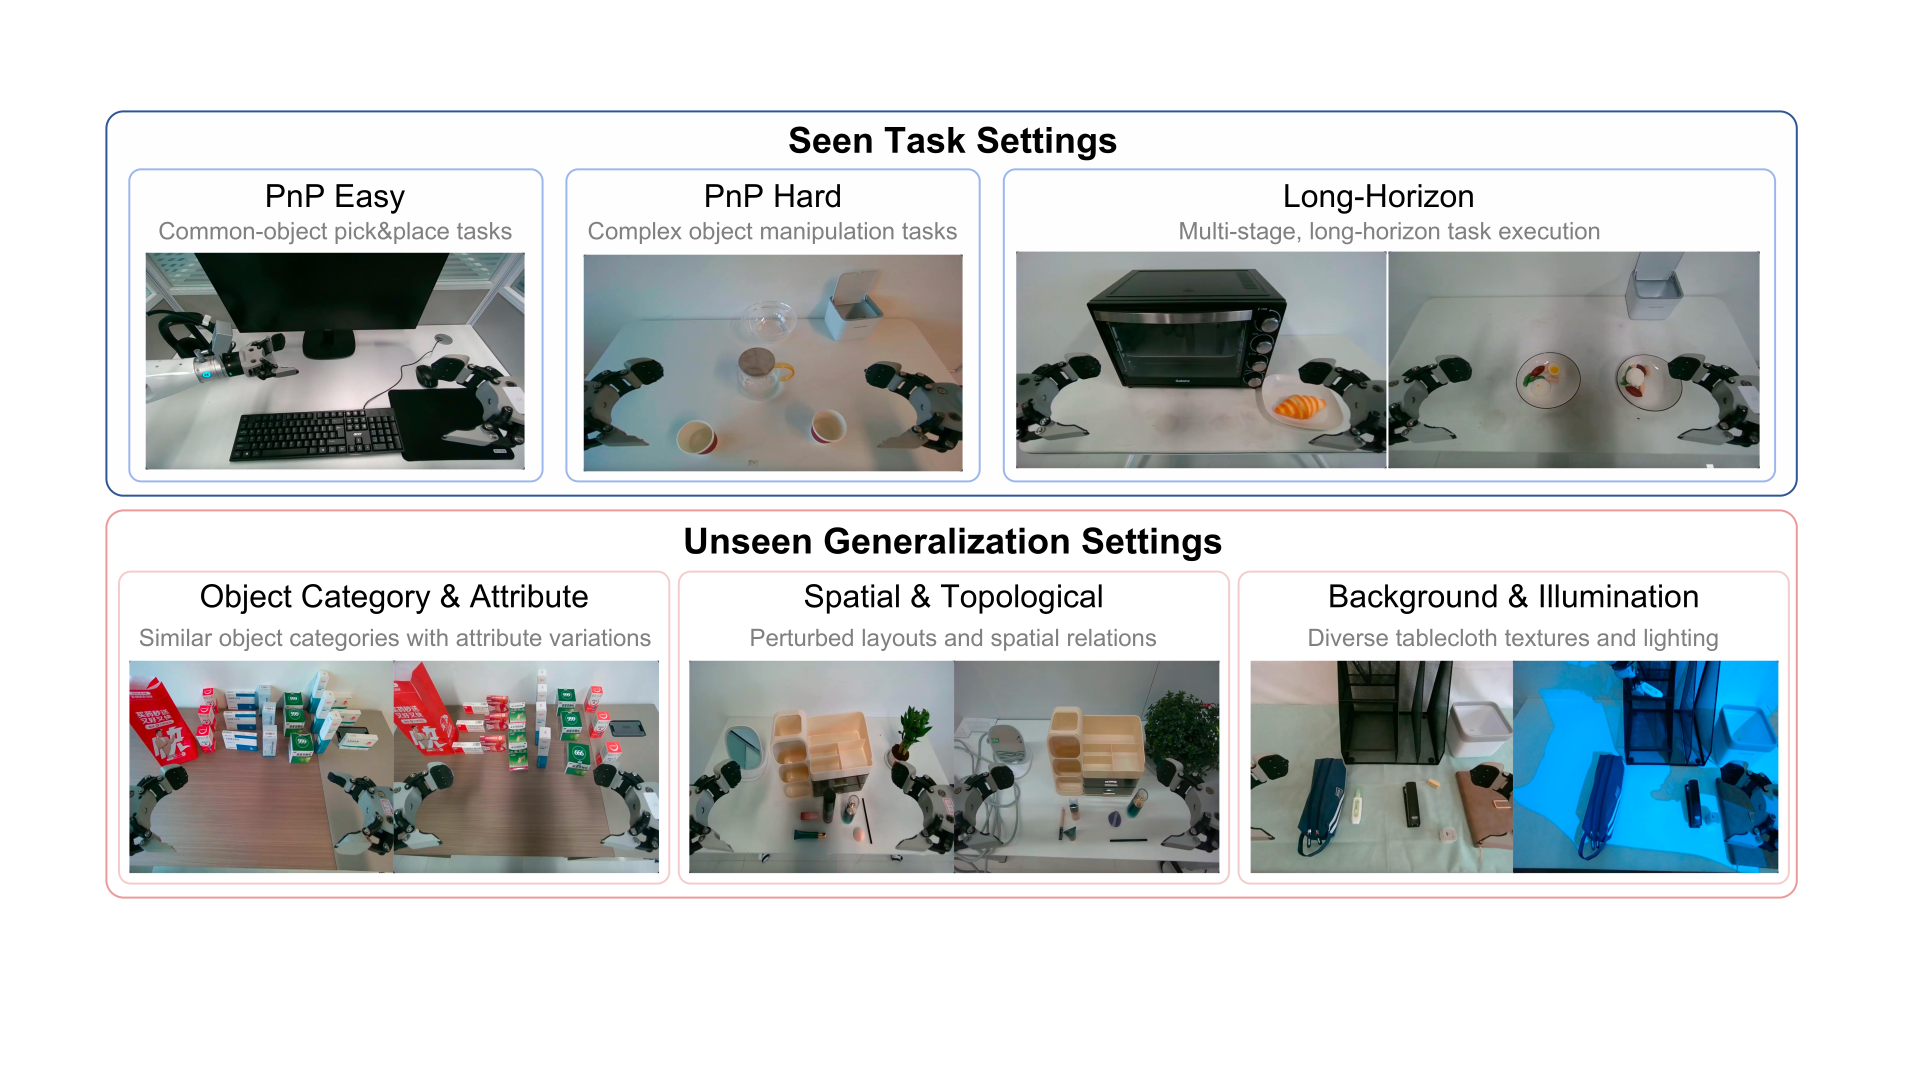
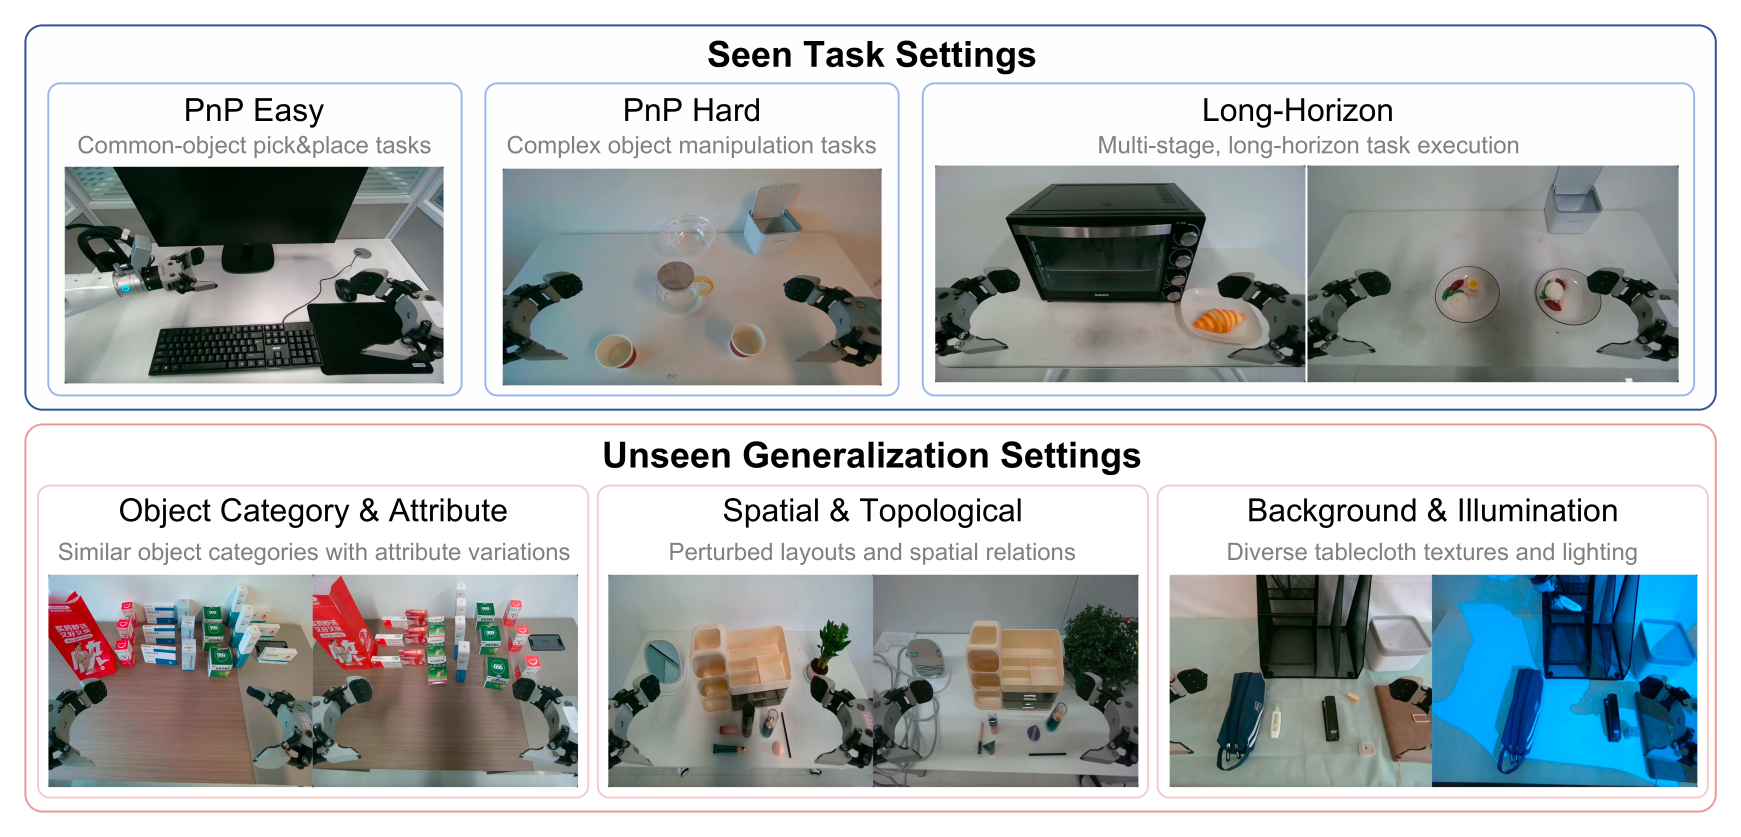
Crop white margins from report figures

diff --git a/technical.html b/technical.html
@@ -86,10 +86,10 @@
 
           <figure class="wide-figure overview-figure" data-reveal>
             <img
-              src="assets/joyra05-overview.png"
+              src="assets/joyra05-overview.png?v=20260805-cropped"
               alt="JoyAI-RA 0.5 overview covering heterogeneous data, dual action alignment, VLWA training, reinforcement learning, real-world generalization, and human-video scaling"
-              width="1920"
-              height="1080"
+              width="1871"
+              height="792"
               loading="eager"
             />
           </figure>
@@ -343,10 +343,10 @@
 
         <figure class="wide-figure contained" data-reveal>
           <img
-            src="assets/experiment-setting.png"
+            src="assets/experiment-setting.png?v=20260805-cropped"
             alt="Real-World AgiBot Benchmark settings with seen and unseen task settings"
-            width="1920"
-            height="1080"
+            width="1741"
+            height="837"
             loading="lazy"
           />
         </figure>

diff --git a/assets/README.md b/assets/README.md
@@ -24,6 +24,12 @@ downloaded Overleaf archive, `JoyAI_RA_0_5 (2).zip` (SHA-256
 Each PDF was rasterized as a single-page PNG at 144 DPI without changing its
 content or aspect ratio.
 
+For the web presentation, two rasterized figures were cropped on 2026-08-05 to
+remove only their surrounding white page margins. `joyra05-overview.png` uses
+the source rectangle `x=1, y=113, width=1871, height=792`, and
+`experiment-setting.png` uses `x=81, y=86, width=1741, height=837`. Neither
+figure was resized, reconstructed, or otherwise altered.
+
 | Web asset | Overleaf source | Source SHA-256 |
 | --- | --- | --- |
[1 lines of base64/hex data omitted]
